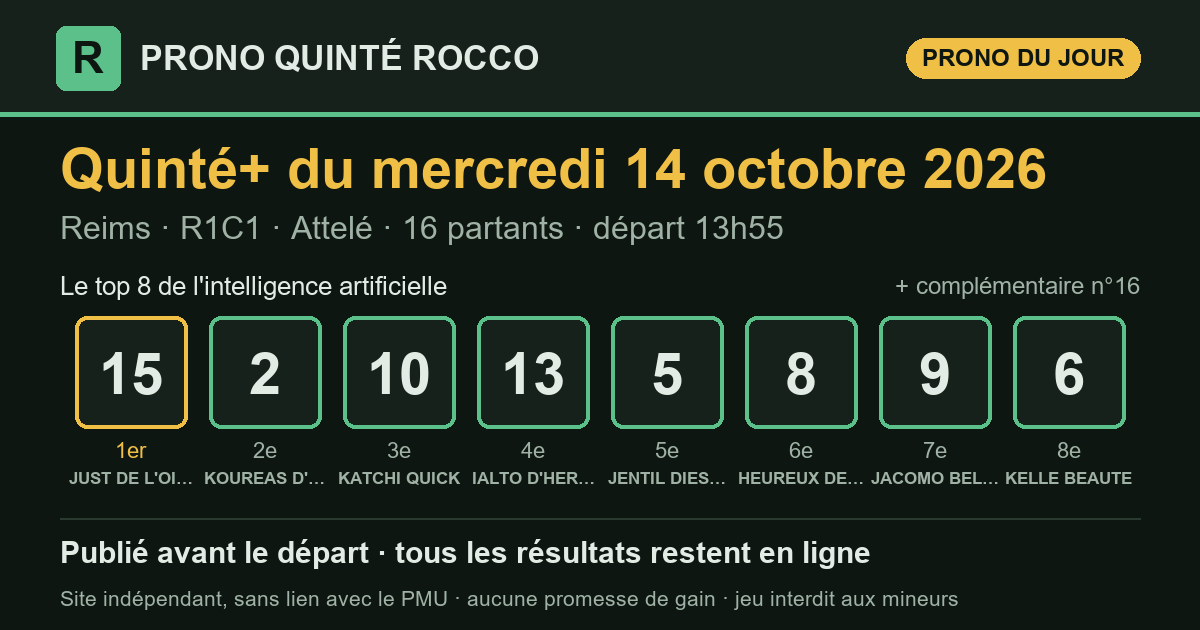
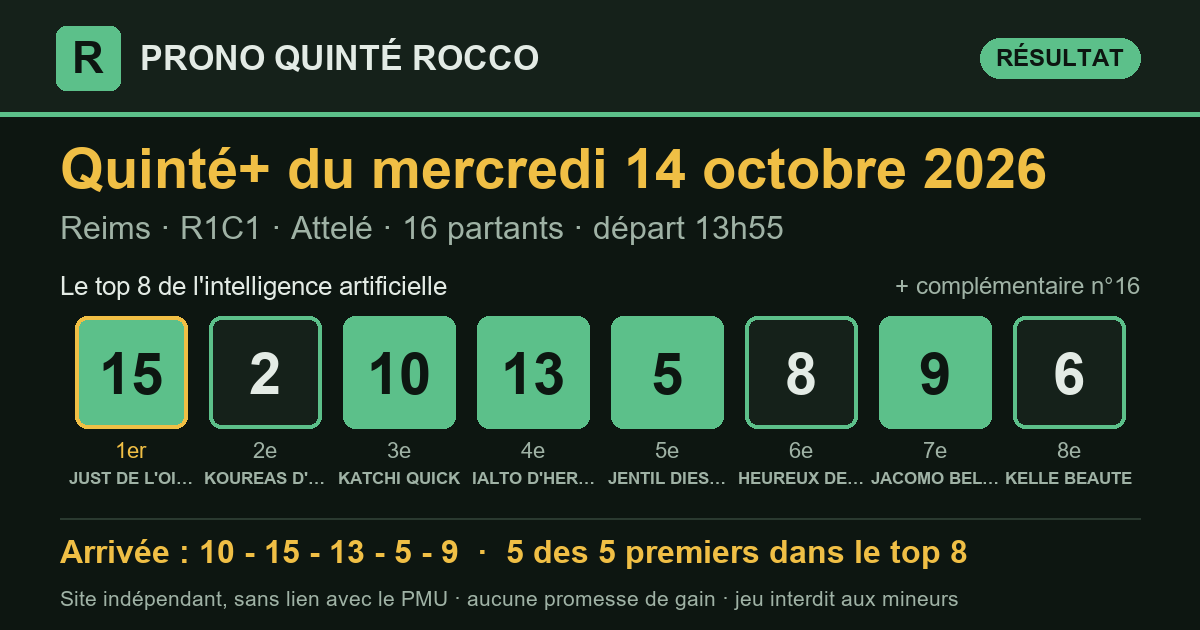
Prono Quinté+ 2026-10-14 Reims R1C1 — publié le 14/10/2026 14:09 (heure de Paris)

diff --git a/partants.html b/partants.html
@@ -3,7 +3,7 @@
 <head>
 <meta charset="utf-8">
 <meta name="viewport" content="width=device-width, initial-scale=1, viewport-fit=cover">
-<title>Partants du Quinté+ du mercredi 14 octobre 2026 — Prono Quinté Rocco</title>
+<title>Partants du Quinté+ du jeudi 15 octobre 2026 — Prono Quinté Rocco</title>
 <meta name="description" content="Les partants du prochain Quinté+ (programme officiel du PMU), avec le rang du prono IA et les liens vers les pronostics de la presse.">
 <link rel="canonical" href="https://prono-quinte-rocco.fr/partants.html">
 <link rel="stylesheet" href="style.css?v=3c55eb2c">
@@ -13,7 +13,7 @@
 <meta property="og:site_name" content="Prono Quinté Rocco">
 <meta property="og:locale" content="fr_FR">
 <meta property="og:type" content="website">
-<meta property="og:title" content="Partants du Quinté+ du mercredi 14 octobre 2026 — Prono Quinté Rocco">
+<meta property="og:title" content="Partants du Quinté+ du jeudi 15 octobre 2026 — Prono Quinté Rocco">
 <meta property="og:description" content="Les partants du prochain Quinté+ (programme officiel du PMU), avec le rang du prono IA et les liens vers les pronostics de la presse.">
 <meta property="og:url" content="https://prono-quinte-rocco.fr/partants.html">
 <meta name="twitter:card" content="summary">
@@ -29,100 +29,100 @@
   <p class="surtitre">Programme officiel du PMU</p>
   <h1>Les partants du prochain Quinté+</h1>
   <div class="fiche-course">
-    <p class="fiche-date">Mercredi 14 octobre 2026</p>
-    <div class="fiche-rc"><span class="pastille" title="Réunion 1">R1</span><span class="pastille" title="Course 1">C1</span><span class="fiche-nom">Grand National du Trot</span></div>
-    <p class="meta">Reims · Trot_attele · 2 550 m · 16 partants</p>
+    <p class="fiche-date">Jeudi 15 octobre 2026</p>
+    <div class="fiche-rc"><span class="pastille" title="Réunion 1">R1</span><span class="pastille" title="Course 1">C1</span><span class="fiche-nom">Prix de la Vierge de Lorette</span></div>
+    <p class="meta">Chantilly · Plat · 1 200 m · 16 partants</p>
     <p class="fiche-depart">Départ <b>13:55</b> <span>heure de Paris</span></p>
   </div>
   <p class="surtitre">Les pronostics ailleurs sur le web</p>
-  <div class="liens"><a class="lien-ext" href="https://www.turfoo.fr/programmes-courses/261014/reunion1-reims/course1-grand-national-du-trot/pronostics-presse/" rel="noopener" target="_blank"><b>Les pronostics de la presse →</b><span>sur Turfoo (site extérieur)</span></a><a class="lien-ext" href="https://www.geny.com/programme/2026-10-14" rel="noopener" target="_blank"><b>Partants et pronostics →</b><span>programme du jour sur Geny (site extérieur)</span></a></div>
+  <div class="liens"><a class="lien-ext" href="https://www.turfoo.fr/programmes-courses/261015/reunion1-chantilly/course1-prix-de-la-vierge-de-lorette/pronostics-presse/" rel="noopener" target="_blank"><b>Les pronostics de la presse →</b><span>sur Turfoo (site extérieur)</span></a><a class="lien-ext" href="https://www.geny.com/programme/2026-10-15" rel="noopener" target="_blank"><b>Partants et pronostics →</b><span>programme du jour sur Geny (site extérieur)</span></a></div>
   <div class="liste-boite"><table class="liste-partants">
     <thead><tr><th>N°</th><th>Cheval</th><th class="cote"><span class="long">Cote du matin</span><span class="court">Cote</span></th>
     <th class="ia"><span class="long">Prono IA</span><span class="court">IA</span></th></tr></thead>
     <tbody><tr>
   <td><span class="tapis petit">1</span></td>
-  <td><span class="cheval">KOTKIE</span><span class="sous">P.PH. PLOQUIN · J.R. DELLIAUX</span></td>
-  <td class="cote num">30,0</td>
+  <td><span class="cheval">SWEET CHOP</span><span class="sous">A.LEMAITRE · A.MURPHY (S)</span></td>
+  <td class="cote num">—</td>
   <td class="ia">—</td>
 </tr><tr>
   <td><span class="tapis petit">2</span></td>
-  <td><span class="cheval">KOUREAS D&#x27;ELA</span><span class="sous">B. ROCHARD · M. SASSIER</span></td>
-  <td class="cote num">4,1</td>
-  <td class="ia"><span class="etat place">2<sup>e</sup></span></td>
+  <td><span class="cheval">LESSLEPASSER</span><span class="sous">PC.BOUDOT · MME S.LANSLOTS</span></td>
+  <td class="cote num">—</td>
+  <td class="ia">—</td>
 </tr><tr>
   <td><span class="tapis petit">3</span></td>
-  <td><span class="cheval">IF I TELL YOU</span><span class="sous">F. OUVRIE · CH. MIRANDEL</span></td>
-  <td class="cote num">86,0</td>
+  <td><span class="cheval">MISTER CHANG</span><span class="sous">H.JOURNIAC · Y.BARBEROT (S)</span></td>
+  <td class="cote num">—</td>
   <td class="ia">—</td>
 </tr><tr>
   <td><span class="tapis petit">4</span></td>
-  <td><span class="cheval">LORD DELO</span><span class="sous">M. VERVA · N. BAZIRE</span></td>
-  <td class="cote num">56,0</td>
+  <td><span class="cheval">GRAND SCOOP</span><span class="sous">E.HARDOUIN · G.MOSSE (S)</span></td>
+  <td class="cote num">—</td>
   <td class="ia">—</td>
 </tr><tr>
   <td><span class="tapis petit">5</span></td>
-  <td><span class="cheval">JENTIL DIESCHOOT</span><span class="sous">E. RAFFIN · K. LEBLANC</span></td>
-  <td class="cote num">12,0</td>
-  <td class="ia"><span class="etat place">5<sup>e</sup></span></td>
+  <td><span class="cheval">HELLO CAREL</span><span class="sous">M.MARQUETTE · G.MOSSE (S)</span></td>
+  <td class="cote num">—</td>
+  <td class="ia">—</td>
 </tr><tr>
   <td><span class="tapis petit">6</span></td>
-  <td><span class="cheval">KELLE BEAUTE</span><span class="sous">A. ABRIVARD · L.CL. ABRIVARD</span></td>
-  <td class="cote num">17,0</td>
-  <td class="ia"><span class="etat place">8<sup>e</sup></span></td>
+  <td><span class="cheval">MAI DIRE MAI</span><span class="sous">C.DEMURO · G.BIETOLINI</span></td>
+  <td class="cote num">—</td>
+  <td class="ia">—</td>
 </tr><tr>
   <td><span class="tapis petit">7</span></td>
-  <td><span class="cheval">HECTOR DE BASSIERE</span><span class="sous">A. ANDRE · P.L. DESAUNETTE</span></td>
-  <td class="cote num">25,0</td>
+  <td><span class="cheval">SILK ROADSTER</span><span class="sous">M.VELON · A.MURPHY (S)</span></td>
+  <td class="cote num">—</td>
   <td class="ia">—</td>
 </tr><tr>
   <td><span class="tapis petit">8</span></td>
-  <td><span class="cheval">HEUREUX DE FLEUR</span><span class="sous">Y. LEBOURGEOIS · Mme S. RAIMOND</span></td>
-  <td class="cote num">17,0</td>
-  <td class="ia"><span class="etat place">6<sup>e</sup></span></td>
+  <td><span class="cheval">PRINCE AUBOIS</span><span class="sous">T.TRULLIER · MME S.PENOT</span></td>
+  <td class="cote num">—</td>
+  <td class="ia">—</td>
 </tr><tr>
   <td><span class="tapis petit">9</span></td>
-  <td><span class="cheval">JACOMO BELLO</span><span class="sous">R. LAMY · TH. LEVESQUE</span></td>
-  <td class="cote num">19,0</td>
-  <td class="ia"><span class="etat place">7<sup>e</sup></span></td>
+  <td><span class="cheval">AWAITING CHRISTMAS</span><span class="sous">T.BACHELOT · V.LUKA</span></td>
+  <td class="cote num">—</td>
+  <td class="ia">—</td>
 </tr><tr>
   <td><span class="tapis petit">10</span></td>
-  <td><span class="cheval">KATCHI QUICK</span><span class="sous">CL. DUVALDESTIN · TH. DUVALDESTIN</span></td>
-  <td class="cote num">4,9</td>
-  <td class="ia"><span class="etat place">3<sup>e</sup></span></td>
+  <td><span class="cheval">ROYALWOOD</span><span class="sous">F.VALLE SKAR · MME C.BARANDE BARBE</span></td>
+  <td class="cote num">—</td>
+  <td class="ia">—</td>
 </tr><tr>
   <td><span class="tapis petit">11</span></td>
-  <td><span class="cheval">JANGO VICI</span><span class="sous">F. GUERINEAU · A. RIPOLL RIGO</span></td>
-  <td class="cote num">74,0</td>
+  <td><span class="cheval">SCHUMAN</span><span class="sous">A.MADAMET · F.MONNIER (S)</span></td>
+  <td class="cote num">—</td>
   <td class="ia">—</td>
 </tr><tr>
   <td><span class="tapis petit">12</span></td>
-  <td><span class="cheval">INDUS VAL</span><span class="sous">P.Y. VERVA · J.M. CHAINEUX</span></td>
-  <td class="cote num">37,0</td>
+  <td><span class="cheval">HEROISTE</span><span class="sous">M.BARZALONA · FH.GRAFFARD (S)</span></td>
+  <td class="cote num">—</td>
   <td class="ia">—</td>
 </tr><tr>
   <td><span class="tapis petit">13</span></td>
-  <td><span class="cheval">IALTO D&#x27;HERTALS</span><span class="sous">F. NIVARD · TH. DUVALDESTIN</span></td>
-  <td class="cote num">14,0</td>
-  <td class="ia"><span class="etat place">4<sup>e</sup></span></td>
+  <td><span class="cheval">ASHERAH</span><span class="sous">A.CRASTUS · J.REYNIER (S)</span></td>
+  <td class="cote num">—</td>
+  <td class="ia">—</td>
 </tr><tr>
   <td><span class="tapis petit">14</span></td>
-  <td><span class="cheval">HORATIUS D&#x27;ELA</span><span class="sous">A. GENDROT · M. SASSIER</span></td>
-  <td class="cote num">88,0</td>
+  <td><span class="cheval">YOKEN</span><span class="sous">S.PASQUIER · MME J.DUPONT-FAHN</span></td>
+  <td class="cote num">—</td>
   <td class="ia">—</td>
 </tr><tr>
   <td><span class="tapis petit">15</span></td>
-  <td><span class="cheval">JUST DE L&#x27;OISON</span><span class="sous">THEO DUVALDESTIN · TH. DUVALDESTIN</span></td>
-  <td class="cote num">4,2</td>
-  <td class="ia"><span class="etat place">1<sup>er</sup></span></td>
+  <td><span class="cheval">ROZARION</span><span class="sous">A.HAMELIN · M.DELZANGLES</span></td>
+  <td class="cote num">—</td>
+  <td class="ia">—</td>
 </tr><tr>
   <td><span class="tapis petit">16</span></td>
-  <td><span class="cheval">JINGLE DU PONT</span><span class="sous">TH. DROMIGNY · N. BAZIRE</span></td>
-  <td class="cote num">61,0</td>
-  <td class="ia"><span class="etat place">compl.</span></td>
+  <td><span class="cheval">SIMPLY LOVELY</span><span class="sous">L.GALLO · JM.BEGUIGNE</span></td>
+  <td class="cote num">—</td>
+  <td class="ia">—</td>
 </tr></tbody>
   </table></div>
-  <p class="meta">Le rang du prono IA est celui publié sur ce site. Sous chaque cheval : driver · entraîneur. Partants et cotes : programme
-  officiel du PMU, lu le 14/10 à 10:29 (heure de Paris). NP = non-partant.</p>
+  <p class="meta">Le prono IA de cette course sera publié le matin de la course, avant le départ. Sous chaque cheval : jockey · entraîneur. Partants et cotes : programme
+  officiel du PMU, lu le 14/10 à 14:09 (heure de Paris). NP = non-partant.</p>
 </section>
 </main>
 <footer class="pied">

diff --git a/quinte/2026-10-14.html b/quinte/2026-10-14.html
@@ -16,7 +16,7 @@
 <meta property="og:title" content="Pronostic Quinté+ du mercredi 14 octobre 2026 à Reims — Prono Quinté Rocco">
 <meta property="og:description" content="Prono Quinté+ du mercredi 14 octobre 2026 (Reims) : top 8, arrivée officielle et rapports PMU.fr.">
 <meta property="og:url" content="https://prono-quinte-rocco.fr/quinte/2026-10-14.html">
-<meta property="og:image" content="https://prono-quinte-rocco.fr/partage/2026-10-14.png?v=b163c617">
+<meta property="og:image" content="https://prono-quinte-rocco.fr/partage/2026-10-14.png?v=9b082869">
 <meta property="og:image:type" content="image/png">
 <meta property="og:image:width" content="1200">
 <meta property="og:image:height" content="630">
@@ -35,11 +35,19 @@
   <h1>Pronostic Quinté+ du mercredi 14 octobre 2026</h1>
   <p class="chapo">Reims · R1C1 · Attelé · 16 partants</p>
   <article class="carte-course">
-  <div class="tete"><h2>Le prono : top 8 et complémentaire</h2><span class="etat attente">arrivée en attente</span></div>
+  <div class="tete"><h2>Le prono : top 8 et complémentaire</h2><span class="etat place">5 des 5 premiers dans le top 8</span></div>
   <p class="meta">Reims · <strong>R1C1</strong> · Attelé · 16 partants · lisibilité <span class="note" aria-label="note 3 sur 5"><i class="on"></i><i class="on"></i><i class="on"></i><i class=""></i><i class=""></i></span> 3/5</p>
-  <ol class="partants" aria-label="Classement du prono"><li><span class="rang">1<sup>er</sup></span><span class="tapis ">15</span><span class="nom">JUST DE L&#x27;OISON</span></li><li><span class="rang">2<sup>e</sup></span><span class="tapis ">2</span><span class="nom">KOUREAS D&#x27;ELA</span></li><li><span class="rang">3<sup>e</sup></span><span class="tapis ">10</span><span class="nom">KATCHI QUICK</span></li><li><span class="rang">4<sup>e</sup></span><span class="tapis ">13</span><span class="nom">IALTO D&#x27;HERTALS</span></li><li><span class="rang">5<sup>e</sup></span><span class="tapis ">5</span><span class="nom">JENTIL DIESCHOOT</span></li><li><span class="rang">6<sup>e</sup></span><span class="tapis ">8</span><span class="nom">HEUREUX DE FLEUR</span></li><li><span class="rang">7<sup>e</sup></span><span class="tapis ">9</span><span class="nom">JACOMO BELLO</span></li><li><span class="rang">8<sup>e</sup></span><span class="tapis ">6</span><span class="nom">KELLE BEAUTE</span></li><li><span class="rang">compl.</span><span class="tapis creux">16</span><span class="nom">JINGLE DU PONT</span></li></ol>
+  <ol class="partants" aria-label="Classement du prono"><li><span class="rang">1<sup>er</sup></span><span class="tapis plein">15</span><span class="nom">JUST DE L&#x27;OISON</span></li><li><span class="rang">2<sup>e</sup></span><span class="tapis ">2</span><span class="nom">KOUREAS D&#x27;ELA</span></li><li><span class="rang">3<sup>e</sup></span><span class="tapis plein">10</span><span class="nom">KATCHI QUICK</span></li><li><span class="rang">4<sup>e</sup></span><span class="tapis plein">13</span><span class="nom">IALTO D&#x27;HERTALS</span></li><li><span class="rang">5<sup>e</sup></span><span class="tapis plein">5</span><span class="nom">JENTIL DIESCHOOT</span></li><li><span class="rang">6<sup>e</sup></span><span class="tapis ">8</span><span class="nom">HEUREUX DE FLEUR</span></li><li><span class="rang">7<sup>e</sup></span><span class="tapis plein">9</span><span class="nom">JACOMO BELLO</span></li><li><span class="rang">8<sup>e</sup></span><span class="tapis ">6</span><span class="nom">KELLE BEAUTE</span></li><li><span class="rang">compl.</span><span class="tapis creux">16</span><span class="nom">JINGLE DU PONT</span></li></ol>
   <div class="pied-carte"><span>Analysé le 14/10 à 10:25 · en ligne le 14/10 à 10:29 · départ à 13:55 (heure de Paris)</span><span></span></div>
 </article>
+<section class="carte-course" aria-labelledby="t-arr">
+  <div class="tete"><h2 id="t-arr">Arrivée officielle</h2></div>
+  <div class="rangee"><span class="tapis plein" title="1er">10</span><span class="tapis plein" title="2e">15</span><span class="tapis plein" title="3e">13</span><span class="tapis plein" title="4e">5</span><span class="tapis plein" title="5e">9</span></div>
+  <div class="deux">
+    <div><h3>Ce qu'aurait rendu le prono</h3><dl class="kv"><dt>1 € placé sur le 1er (n°15)</dt><dd>rapport manquant</dd><dt>1 € gagnant sur le 1er</dt><dd>rapport manquant</dd></dl></div>
+    <div><h3>Rapports officiels</h3><dl class="kv"><dt>rapports indisponibles</dt><dd></dd></dl></div>
+  </div>
+</section>
 </section>
 </main>
 <footer class="pied">

diff --git a/index.html b/index.html
@@ -16,7 +16,7 @@
 <meta property="og:title" content="Pronostic Quinté+ du mercredi 14 octobre 2026 — Prono Quinté Rocco">
 <meta property="og:description" content="Le pronostic du Quinté+ par intelligence artificielle, publié avant le départ, avec tous les résultats et le rendement réel.">
 <meta property="og:url" content="https://prono-quinte-rocco.fr/">
-<meta property="og:image" content="https://prono-quinte-rocco.fr/partage/2026-10-14.png?v=b163c617">
+<meta property="og:image" content="https://prono-quinte-rocco.fr/partage/2026-10-14.png?v=9b082869">
 <meta property="og:image:type" content="image/png">
 <meta property="og:image:width" content="1200">
 <meta property="og:image:height" content="630">
@@ -31,15 +31,15 @@
 </header>
 <main>
 <section class="une" aria-labelledby="t-jour">
-  <p class="surtitre">Quinté+ du jour</p>
+  <p class="surtitre">Dernier Quinté+</p>
   <h1 id="t-jour">Le prono du Quinté+, résultats compris</h1>
   <p class="chapo">Chaque matin, une intelligence artificielle classe les partants du
   Quinté+. Le classement est publié avant le départ, puis comparé à l'arrivée
   officielle. Tous les résultats restent en ligne, les bons comme les mauvais.</p>
   <article class="carte-course">
-  <div class="tete"><h2>Mercredi 14 octobre 2026</h2><span class="etat attente">arrivée en attente</span></div>
+  <div class="tete"><h2>Mercredi 14 octobre 2026</h2><span class="etat place">5 des 5 premiers dans le top 8</span></div>
   <p class="meta">Reims · <strong>R1C1</strong> · Attelé · 16 partants · lisibilité <span class="note" aria-label="note 3 sur 5"><i class="on"></i><i class="on"></i><i class="on"></i><i class=""></i><i class=""></i></span> 3/5</p>
-  <ol class="partants" aria-label="Classement du prono"><li><span class="rang">1<sup>er</sup></span><span class="tapis ">15</span><span class="nom">JUST DE L&#x27;OISON</span></li><li><span class="rang">2<sup>e</sup></span><span class="tapis ">2</span><span class="nom">KOUREAS D&#x27;ELA</span></li><li><span class="rang">3<sup>e</sup></span><span class="tapis ">10</span><span class="nom">KATCHI QUICK</span></li><li><span class="rang">4<sup>e</sup></span><span class="tapis ">13</span><span class="nom">IALTO D&#x27;HERTALS</span></li><li><span class="rang">5<sup>e</sup></span><span class="tapis ">5</span><span class="nom">JENTIL DIESCHOOT</span></li><li><span class="rang">6<sup>e</sup></span><span class="tapis ">8</span><span class="nom">HEUREUX DE FLEUR</span></li><li><span class="rang">7<sup>e</sup></span><span class="tapis ">9</span><span class="nom">JACOMO BELLO</span></li><li><span class="rang">8<sup>e</sup></span><span class="tapis ">6</span><span class="nom">KELLE BEAUTE</span></li><li><span class="rang">compl.</span><span class="tapis creux">16</span><span class="nom">JINGLE DU PONT</span></li></ol>
+  <ol class="partants" aria-label="Classement du prono"><li><span class="rang">1<sup>er</sup></span><span class="tapis plein">15</span><span class="nom">JUST DE L&#x27;OISON</span></li><li><span class="rang">2<sup>e</sup></span><span class="tapis ">2</span><span class="nom">KOUREAS D&#x27;ELA</span></li><li><span class="rang">3<sup>e</sup></span><span class="tapis plein">10</span><span class="nom">KATCHI QUICK</span></li><li><span class="rang">4<sup>e</sup></span><span class="tapis plein">13</span><span class="nom">IALTO D&#x27;HERTALS</span></li><li><span class="rang">5<sup>e</sup></span><span class="tapis plein">5</span><span class="nom">JENTIL DIESCHOOT</span></li><li><span class="rang">6<sup>e</sup></span><span class="tapis ">8</span><span class="nom">HEUREUX DE FLEUR</span></li><li><span class="rang">7<sup>e</sup></span><span class="tapis plein">9</span><span class="nom">JACOMO BELLO</span></li><li><span class="rang">8<sup>e</sup></span><span class="tapis ">6</span><span class="nom">KELLE BEAUTE</span></li><li><span class="rang">compl.</span><span class="tapis creux">16</span><span class="nom">JINGLE DU PONT</span></li></ol>
   <div class="pied-carte"><span>Analysé le 14/10 à 10:25 · en ligne le 14/10 à 10:29 · départ à 13:55 (heure de Paris)</span><span><a href="quinte/2026-10-14.html">Détail de la course</a></span></div>
 </article>
   <div class="legende"><span><span class="tapis plein petit">4</span> numéro dans les 5 premiers</span>

diff --git a/resultats.html b/resultats.html
@@ -39,8 +39,8 @@
     <tbody><tr>
   <td class="c-date"><a href="quinte/2026-10-14.html">14/10</a></td>
   <td class="c-course">Reims<br><span class="meta">R1C1 · Attelé</span></td>
-  <td data-label="Top 8 du prono"><div class="rangee"><span class="tapis petit">15</span><span class="tapis petit">2</span><span class="tapis petit">10</span><span class="tapis petit">13</span><span class="tapis petit">5</span><span class="tapis petit">8</span><span class="tapis petit">9</span><span class="tapis petit">6</span></div></td><td data-label="Arrivée"><span class="etat attente">en attente</span></td>
-  <td class="num" data-label="Trouvés">—</td><td data-label="1er du prono"><span class="etat attente">—</span></td><td class="mont" data-label="Quinté+ top 8 (mise 112 €)">—</td>
+  <td data-label="Top 8 du prono"><div class="rangee"><span class="tapis plein petit">15</span><span class="tapis petit">2</span><span class="tapis plein petit">10</span><span class="tapis plein petit">13</span><span class="tapis plein petit">5</span><span class="tapis petit">8</span><span class="tapis plein petit">9</span><span class="tapis petit">6</span></div></td><td data-label="Arrivée"><div class="rangee"><span class="tapis plein petit" title="1er">10</span><span class="tapis plein petit" title="2e">15</span><span class="tapis plein petit" title="3e">13</span><span class="tapis plein petit" title="4e">5</span><span class="tapis plein petit" title="5e">9</span></div></td>
+  <td class="num" data-label="Trouvés">5/5</td><td data-label="1er du prono"><span class="etat place">placé</span></td><td class="mont" data-label="Quinté+ top 8 (mise 112 €)">—</td>
 </tr><tr>
   <td class="c-date"><a href="quinte/2026-10-13.html">13/10</a></td>
   <td class="c-course">ParisLongchamp<br><span class="meta">R1C1 · Plat</span></td>
